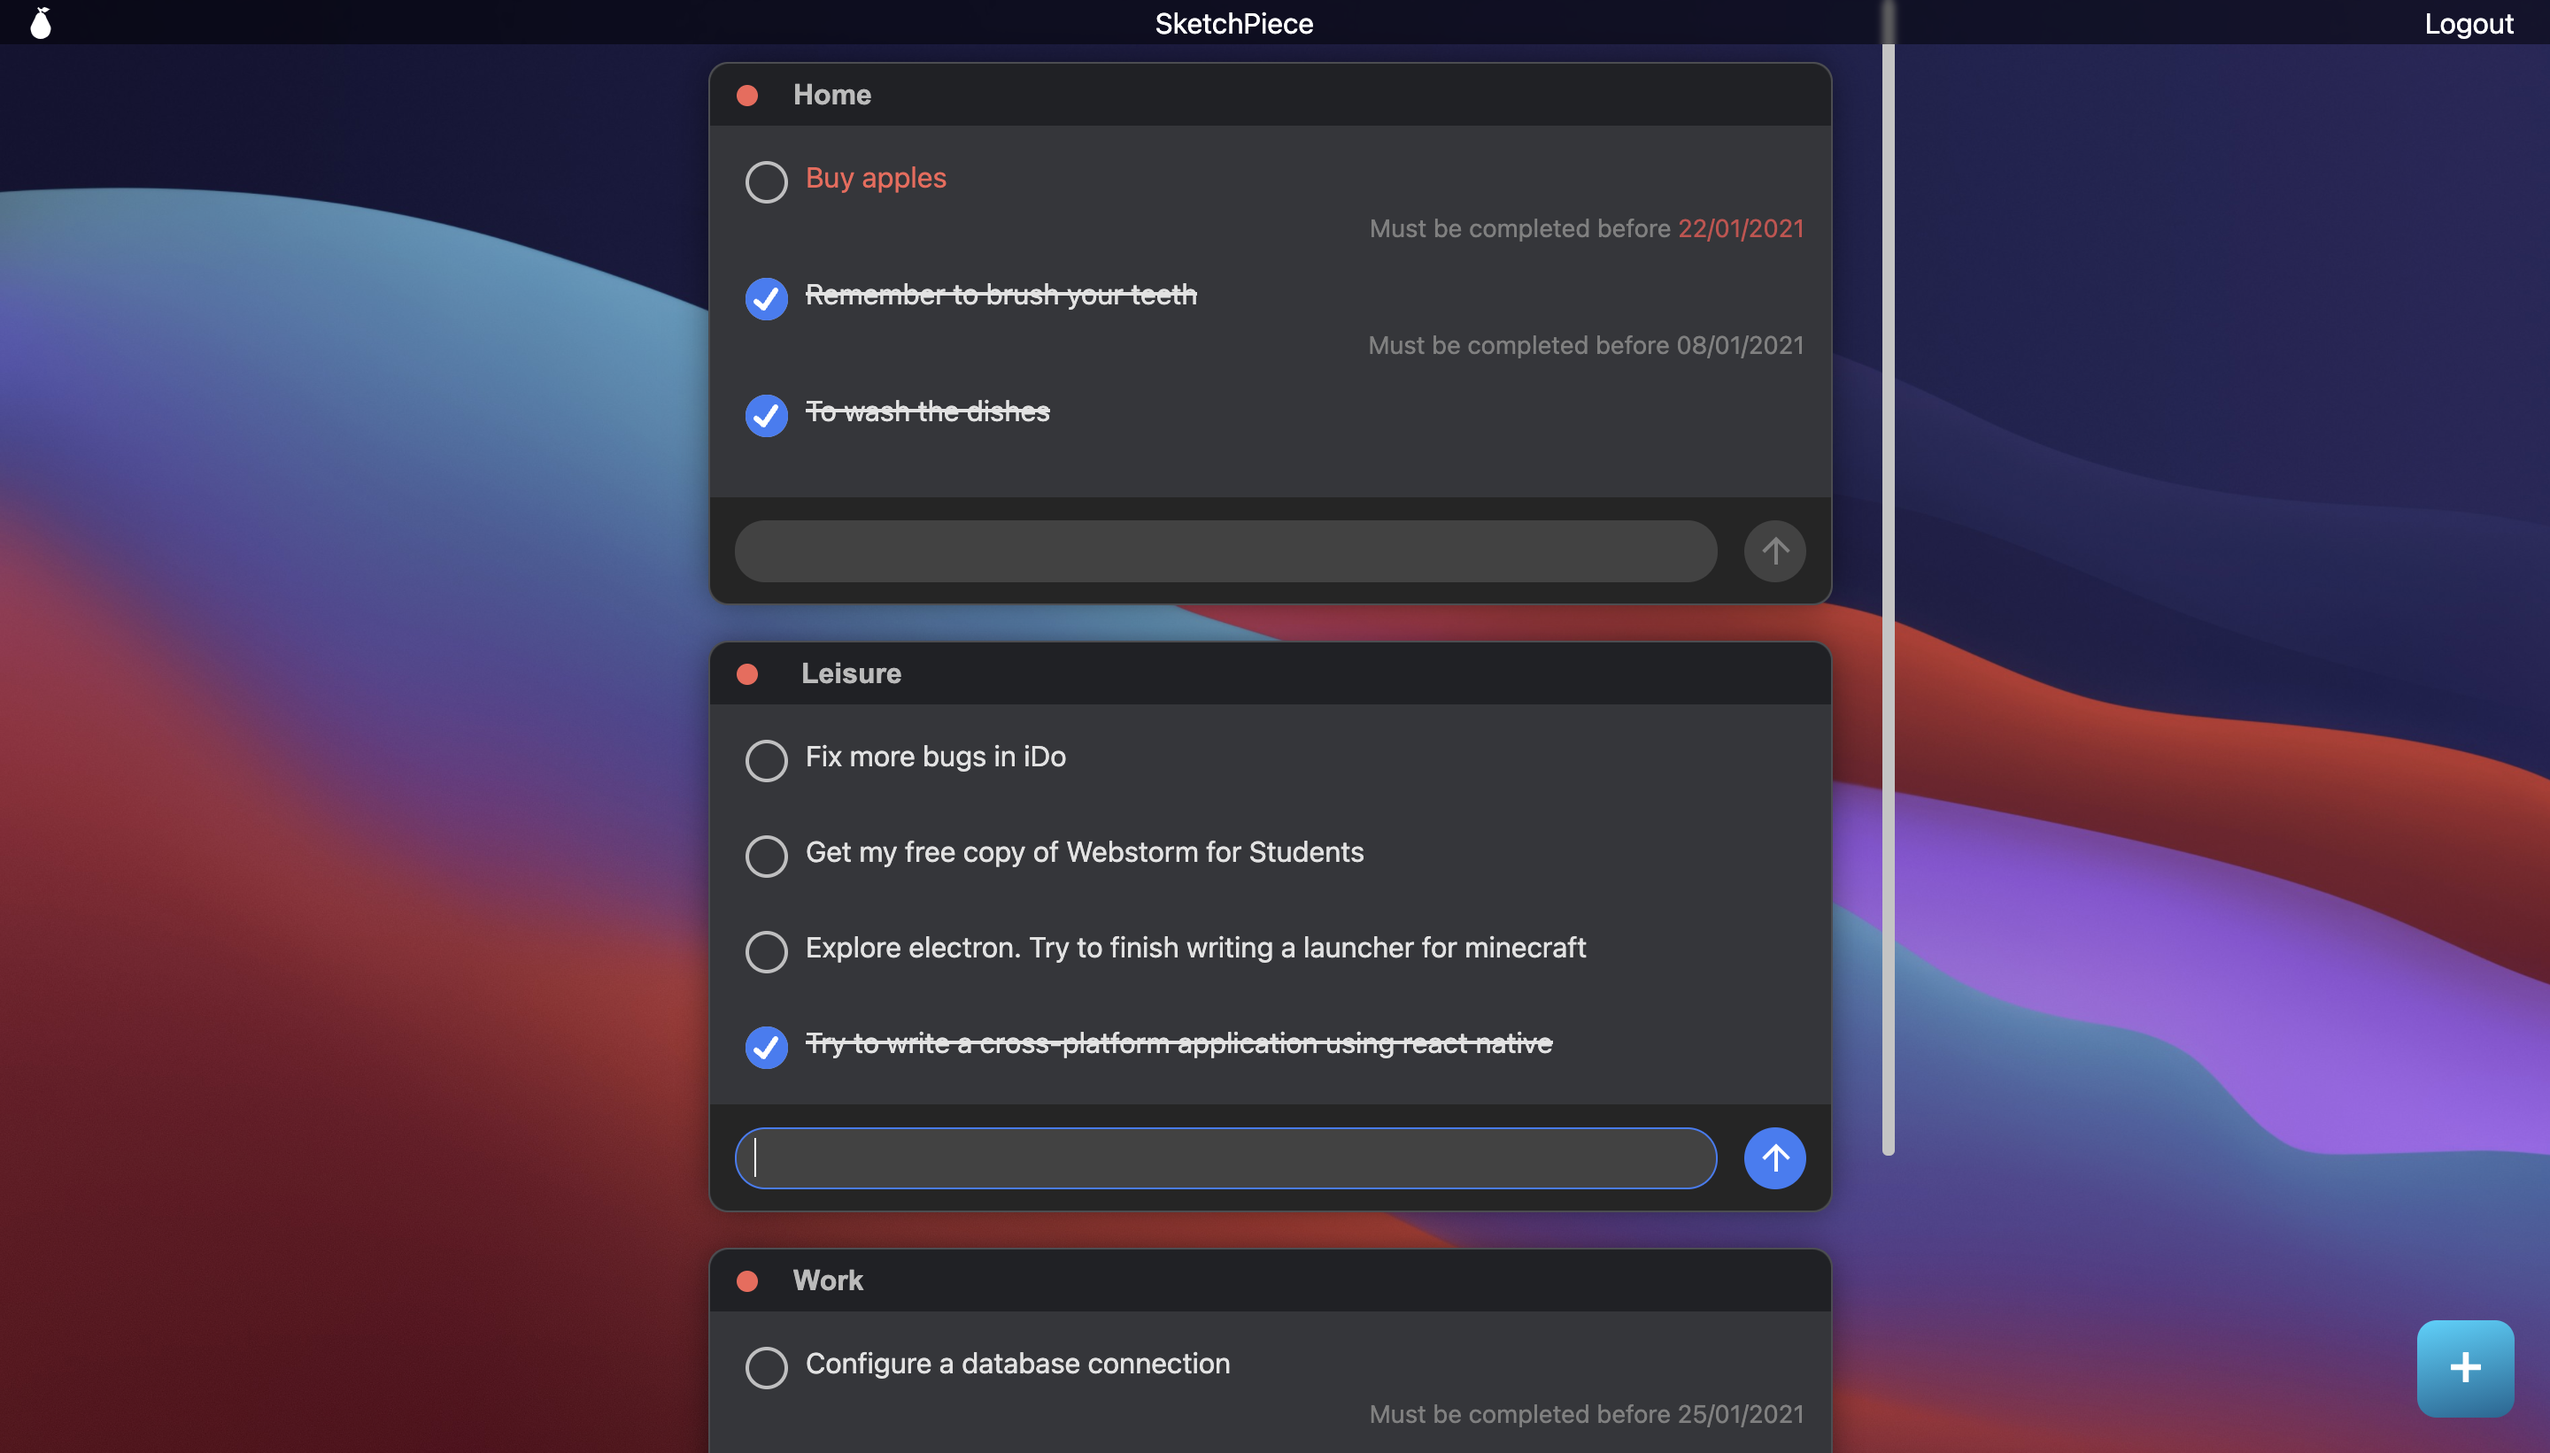
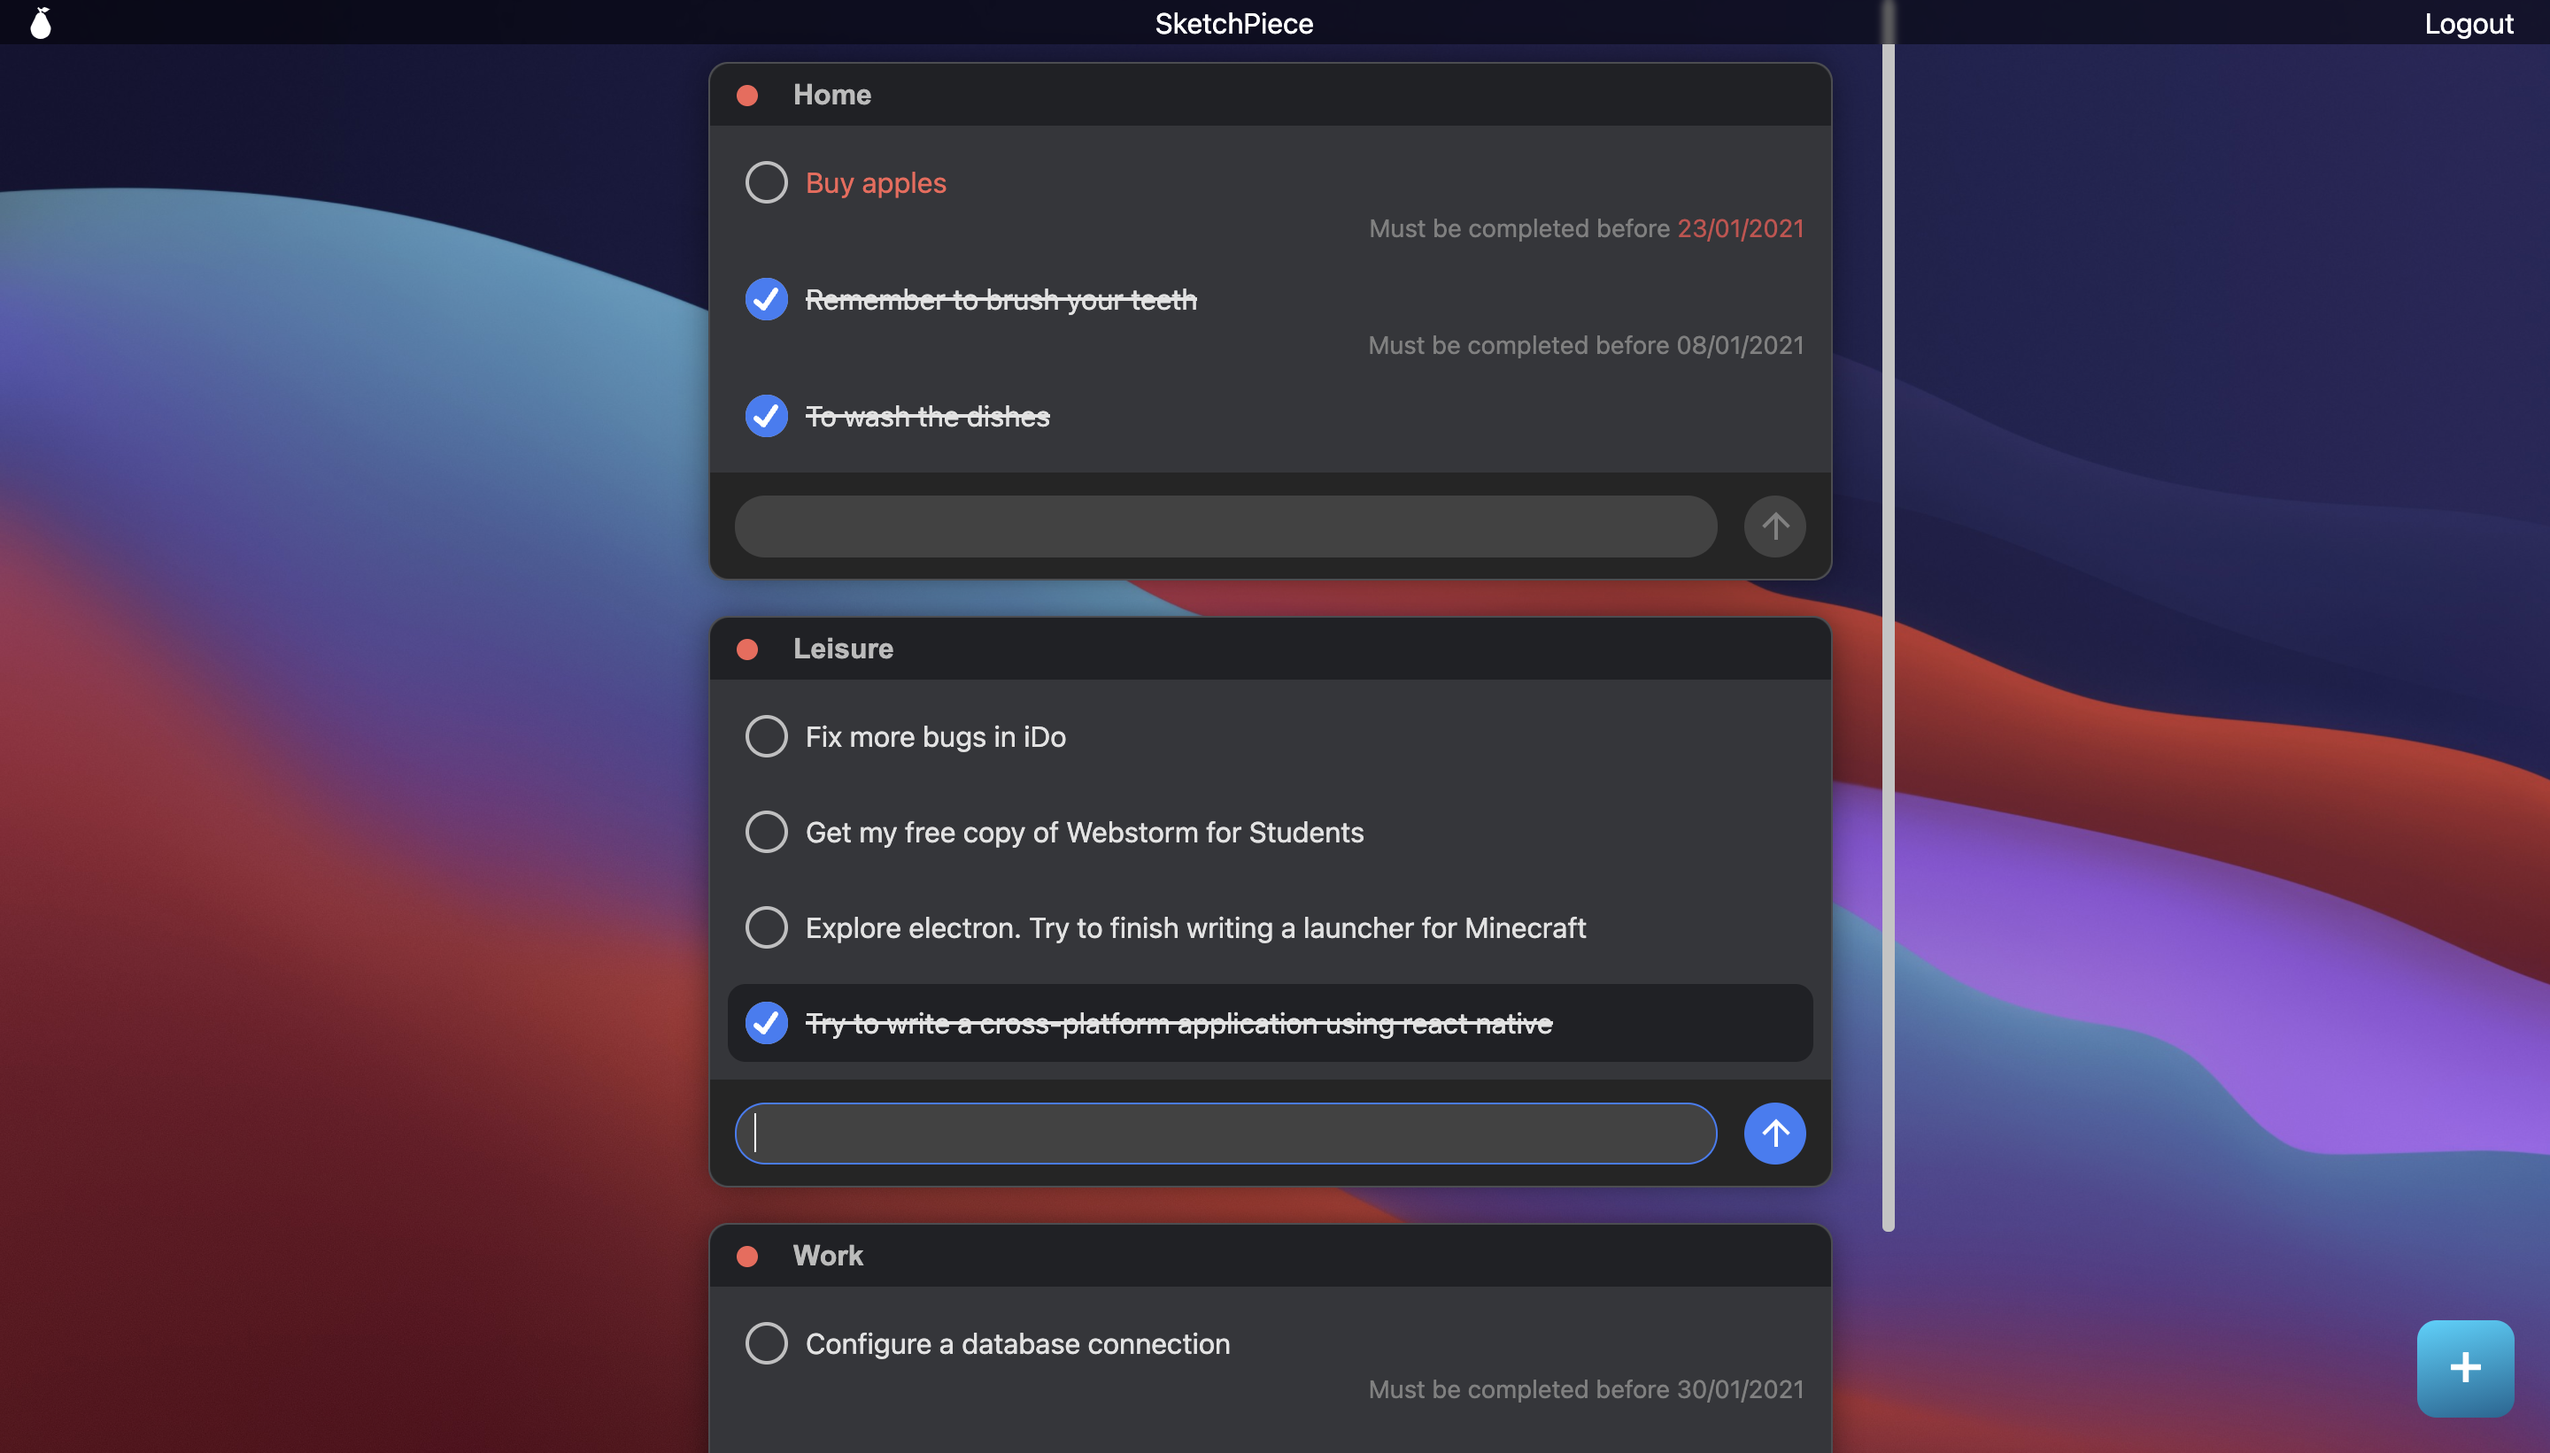
edited screenshot in README, changed min proj size

diff --git a/client/src/components/Main/Task.vue b/client/src/components/Main/Task.vue
@@ -69,6 +69,9 @@ export default {
   margin: 10px;
   border-radius: 10px;
   position: relative;
+  .strike {
+    padding-top: 3px;
+  }
   span.expired {
     color: #cc4c4c;
   }

diff --git a/client/src/components/Main/Project.vue b/client/src/components/Main/Project.vue
@@ -112,7 +112,7 @@ export default {
 
 <style lang="scss" scoped>
 .tasks {
-  min-height: 200px;
+  min-height: 150px;
 }
 .main {
   position: relative;
